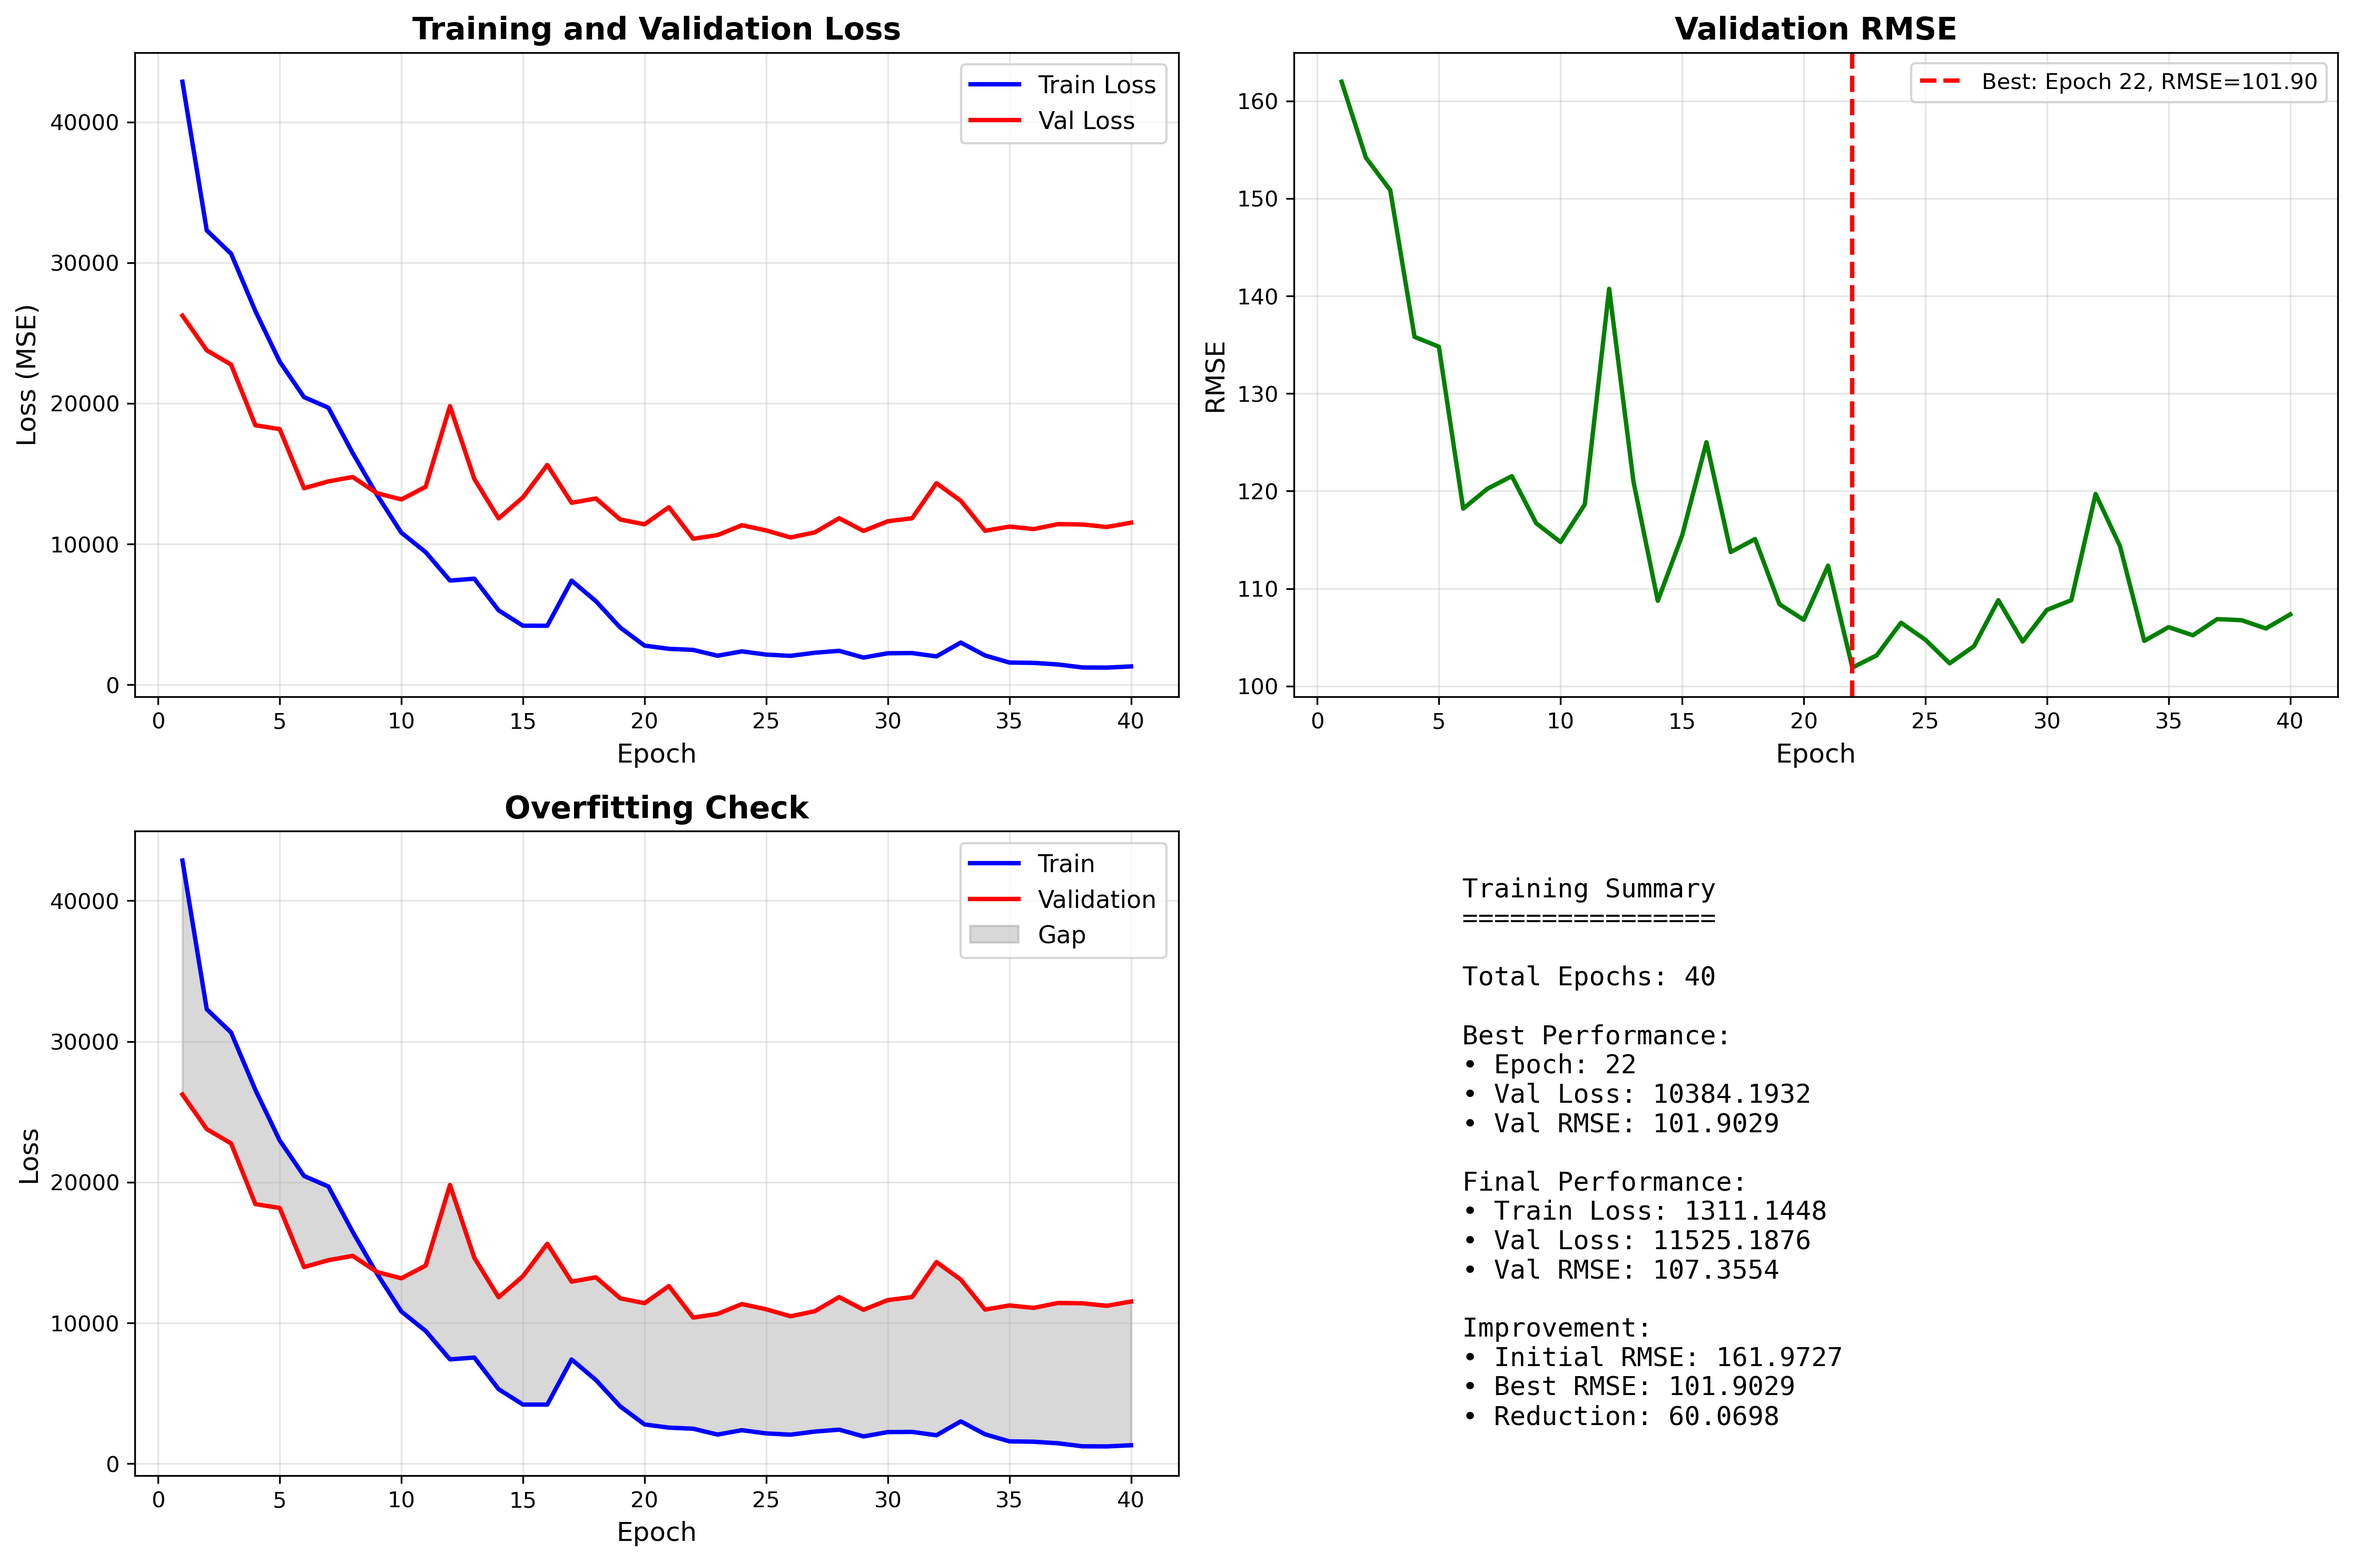
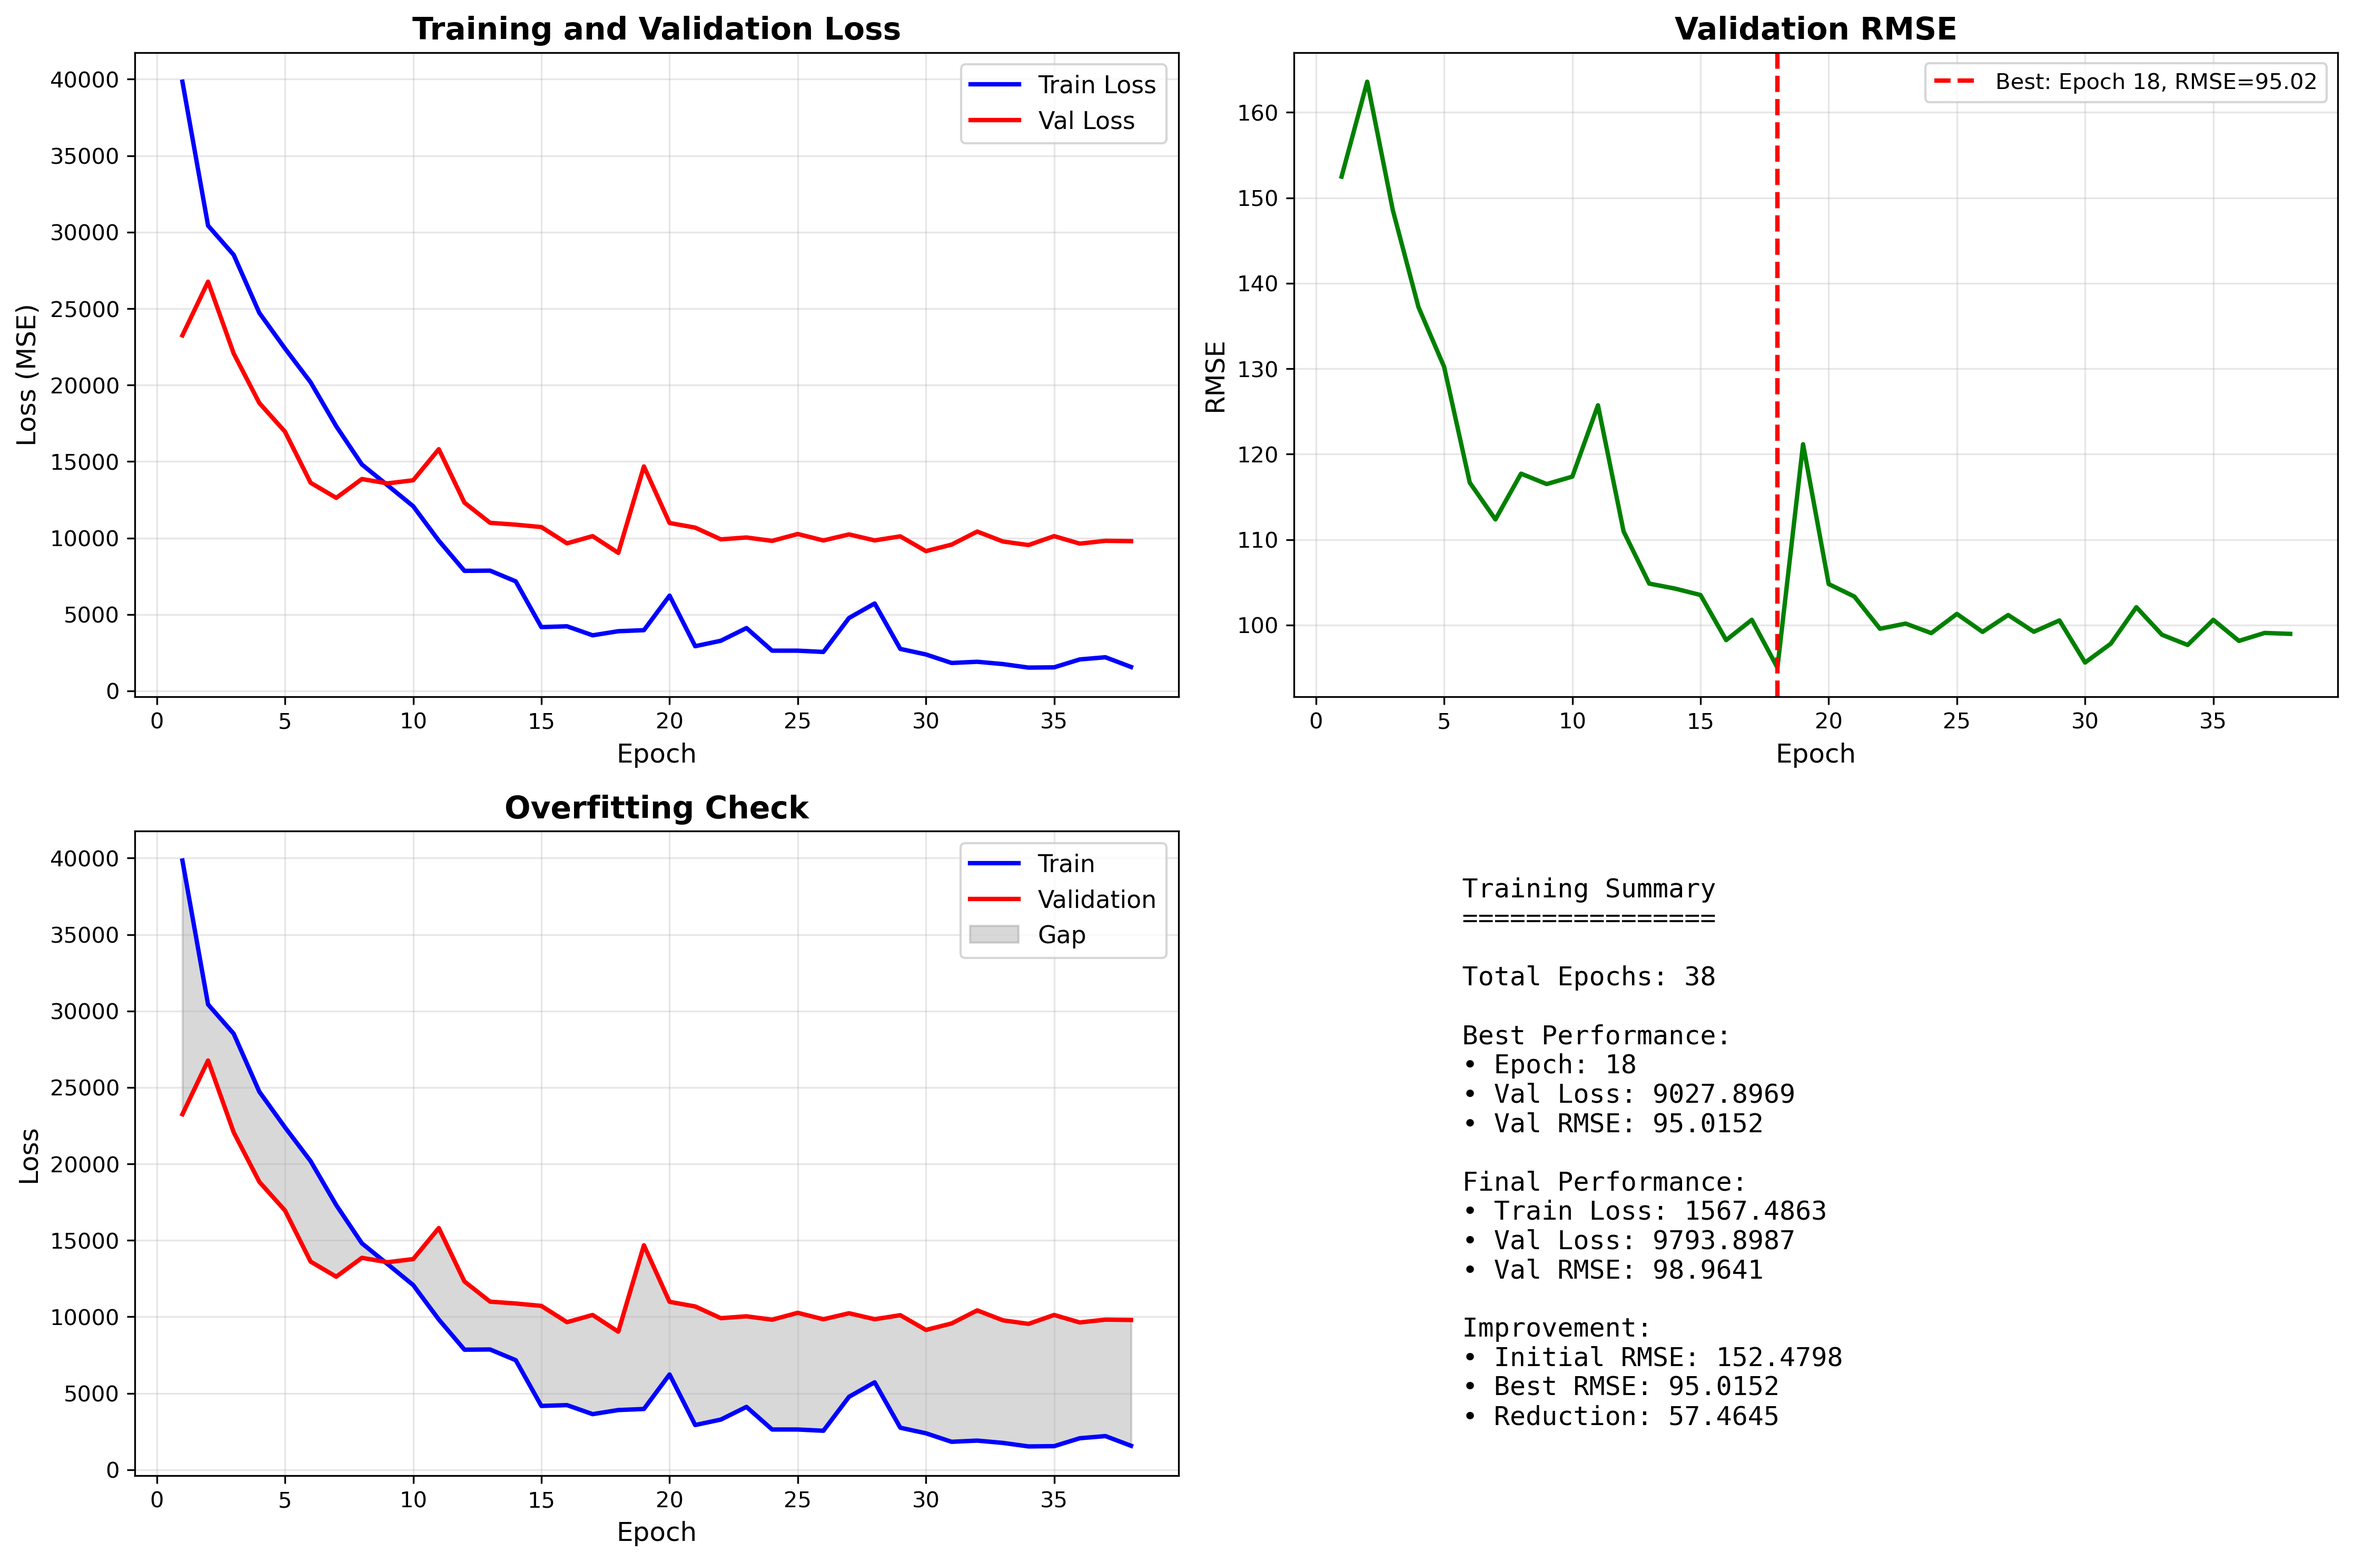
embedding size: 64

diff --git a/model.py b/model.py
@@ -7,58 +7,33 @@ from tqdm import tqdm
 import os
 import matplotlib.pyplot as plt
 from data import get_dataloaders
+from autoencoder import ImageEncoder
 
-# ============= 轻量版模型定义 =============
+# ============= 使用预训练Encoder的CNN模型 =============
 class CalorieEstimatorCNN(nn.Module):
-    """双流CNN：分别处理RGB和Depth，然后融合"""
-    def __init__(self):
+    """使用Autoencoder预训练的双流CNN"""
+    def __init__(self, use_pretrained=True, pretrained_path=None):
         super(CalorieEstimatorCNN, self).__init__()
         
-        # RGB流 - 只用3层卷积
-        self.rgb_stream = nn.Sequential(
-            # Conv1
-            nn.Conv2d(3, 32, kernel_size=3, padding=1),
-            nn.BatchNorm2d(32),
-            nn.ReLU(),
-            nn.MaxPool2d(2),  # 224 -> 112
-            
-            # Conv2
-            nn.Conv2d(32, 64, kernel_size=3, padding=1),
-            nn.BatchNorm2d(64),
-            nn.ReLU(),
-            nn.MaxPool2d(2),  # 112 -> 56
-            
-            # Conv3
-            nn.Conv2d(64, 128, kernel_size=3, padding=1),
-            nn.BatchNorm2d(128),
-            nn.ReLU(),
-            nn.AdaptiveAvgPool2d((1, 1))  # 全局平均池化
-        )
+        # RGB流 - 使用预训练的Encoder
+        self.rgb_stream = ImageEncoder(in_channels=3, embedding_size=64)
         
-        # Depth流 - 只用3层卷积
-        self.depth_stream = nn.Sequential(
-            # Conv1
-            nn.Conv2d(1, 32, kernel_size=3, padding=1),
-            nn.BatchNorm2d(32),
-            nn.ReLU(),
-            nn.MaxPool2d(2),
-            
-            # Conv2
-            nn.Conv2d(32, 64, kernel_size=3, padding=1),
-            nn.BatchNorm2d(64),
-            nn.ReLU(),
-            nn.MaxPool2d(2),
-            
-            # Conv3
-            nn.Conv2d(64, 128, kernel_size=3, padding=1),
-            nn.BatchNorm2d(128),
-            nn.ReLU(),
-            nn.AdaptiveAvgPool2d((1, 1))
-        )
+        # Depth流 - 使用预训练的Encoder
+        self.depth_stream = ImageEncoder(in_channels=1, embedding_size=64)
         
-        # 融合层 + 回归头 - 更简单
+        # 加载预训练权重
+        if use_pretrained and pretrained_path and os.path.exists(pretrained_path):
+            print(f"✓ 加载预训练Encoder: {pretrained_path}")
+            checkpoint = torch.load(pretrained_path, map_location='cpu', weights_only=False)
+            self.rgb_stream.load_state_dict(checkpoint['rgb_encoder'])
+            self.depth_stream.load_state_dict(checkpoint['depth_encoder'])
+            print("✓ 预训练权重加载完成")
+        else:
+            print("⚠ 从随机初始化开始训练")
+        
+        # 融合层 + 回归头
         self.fusion = nn.Sequential(
-            nn.Linear(256, 128),  # 128 + 128 = 256
+            nn.Linear(128, 128),  # 128 + 128 = 256
             nn.ReLU(),
             nn.Dropout(0.3),
             nn.Linear(128, 1)
@@ -66,8 +41,8 @@ class CalorieEstimatorCNN(nn.Module):
     
     def forward(self, rgb, depth):
         # 提取特征
-        rgb_feat = self.rgb_stream(rgb).flatten(1)      # [batch, 128]
-        depth_feat = self.depth_stream(depth).flatten(1) # [batch, 128]
+        rgb_feat = self.rgb_stream(rgb)      # [batch, 128]
+        depth_feat = self.depth_stream(depth) # [batch, 128]
         
         # 融合
         fused = torch.cat([rgb_feat, depth_feat], dim=1) # [batch, 256]
@@ -160,7 +135,7 @@ def plot_training_history(history, save_path='training_results.png'):
                             alpha=0.3, color='gray', label='Gap')
     axes[1, 0].set_xlabel('Epoch', fontsize=12)
     axes[1, 0].set_ylabel('Loss', fontsize=12)
-    axes[1, 0].set_title('Overfitting Check (Train-Val Gap)', fontsize=14, fontweight='bold')
+    axes[1, 0].set_title('Overfitting Check', fontsize=14, fontweight='bold')
     axes[1, 0].legend(fontsize=11)
     axes[1, 0].grid(True, alpha=0.3)
     
@@ -198,19 +173,20 @@ def plot_training_history(history, save_path='training_results.png'):
 
 # ============= 主训练流程 =============
 def main():
-    # 超参数 - 针对小数据集优化
+    print("=" * 60)
+    print("步骤3: 训练CNN (使用预训练的Autoencoder)")
+    print("=" * 60)
+    
+    # 超参数
     BATCH_SIZE = 32
-    EPOCHS = 50
-    LEARNING_RATE = 0.001  
+    EPOCHS = 40
+    LEARNING_RATE = 0.0005  # 使用预训练时降低学习率
     VAL_SPLIT = 0.2
+    USE_PRETRAINED = True  # 是否使用预训练Encoder
     
     # 路径
-    ROOT_DIR = os.getenv('DATA_ROOT_DIR', './data')
-    CSV_FILE = os.getenv('TRAIN_CSV_FILE', './data/nutrition5k_train.csv')
-    CHECKPOINT_DIR = os.getenv('CHECKPOINT_DIR', './checkpoints')
-    print(f"📁 数据根目录: {ROOT_DIR}")
-    print(f"📄 训练CSV文件: {CSV_FILE}")
-    print(f"💾 检查点目录: {CHECKPOINT_DIR}")
+    ROOT_DIR = '/Users/hanlinxuan/Desktop/Learning/Unimelb/2025 S2/CV/Assignment/Project/content'
+    CSV_FILE = '/Users/hanlinxuan/Desktop/Learning/Unimelb/2025 S2/CV/Assignment/Project/content/comp-90086-nutrition-5-k/Nutrition5K/Nutrition5K/nutrition5k_train.csv'
     
     # 设备
     if torch.backends.mps.is_available():
@@ -221,6 +197,7 @@ def main():
         print("⚠ 使用 CPU")
     
     print(f"设备: {device}")
+    print(f"预训练Encoder: {'启用' if USE_PRETRAINED else '关闭'}")
     
     # 创建保存目录
     os.makedirs('checkpoints', exist_ok=True)
@@ -238,16 +215,19 @@ def main():
     
     # 创建模型
     print("\n创建模型...")
-    model = CalorieEstimatorCNN().to(device)
+    model = CalorieEstimatorCNN(
+        use_pretrained=USE_PRETRAINED,
+        pretrained_path='checkpoints/autoencoder_best.pth'
+    ).to(device)
     
     # 打印模型参数量
     total_params = sum(p.numel() for p in model.parameters())
     trainable_params = sum(p.numel() for p in model.parameters() if p.requires_grad)
     print(f"模型参数量: {total_params:,} (可训练: {trainable_params:,})")
     
-    # 损失函数和优化器
+    # 损失函数和优化器 - 使用AdamW
     criterion = nn.MSELoss()
-    optimizer = optim.Adam(model.parameters(), lr=LEARNING_RATE, weight_decay=1e-4)
+    optimizer = optim.AdamW(model.parameters(), lr=LEARNING_RATE, weight_decay=0.01)
     
     # 学习率调度器
     scheduler = optim.lr_scheduler.ReduceLROnPlateau(
@@ -337,6 +317,8 @@ def main():
         print(f"  Epoch {i+1}: Train Loss={history['train_loss'][i]:.4f}, "
               f"Val Loss={history['val_loss'][i]:.4f}, "
               f"Val RMSE={history['val_rmse'][i]:.4f}")
+    
+    print("\n下一步: 运行 predict.py 生成提交文件")
 
 
 if __name__ == '__main__':

diff --git a/train_auto.py b/train_auto.py
@@ -17,7 +17,7 @@ def train_autoencoder():
     print("=" * 60)
     
     # 超参数
-    BATCH_SIZE = 16
+    BATCH_SIZE = 32
     EPOCHS = 30
     LEARNING_RATE = 0.001
     EMBEDDING_SIZE = 64
